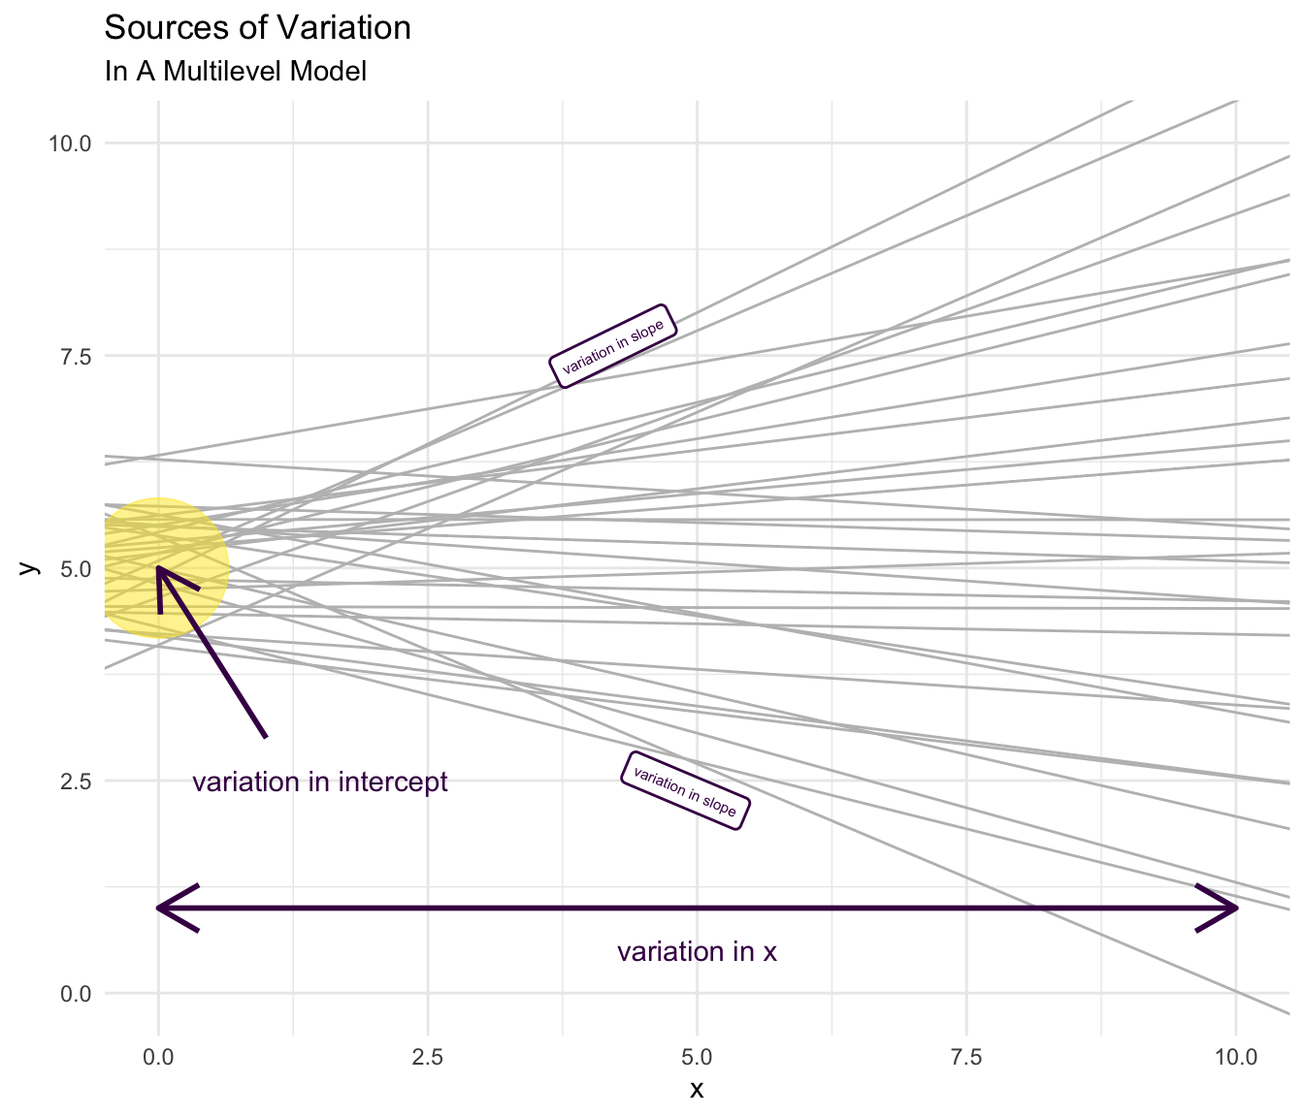
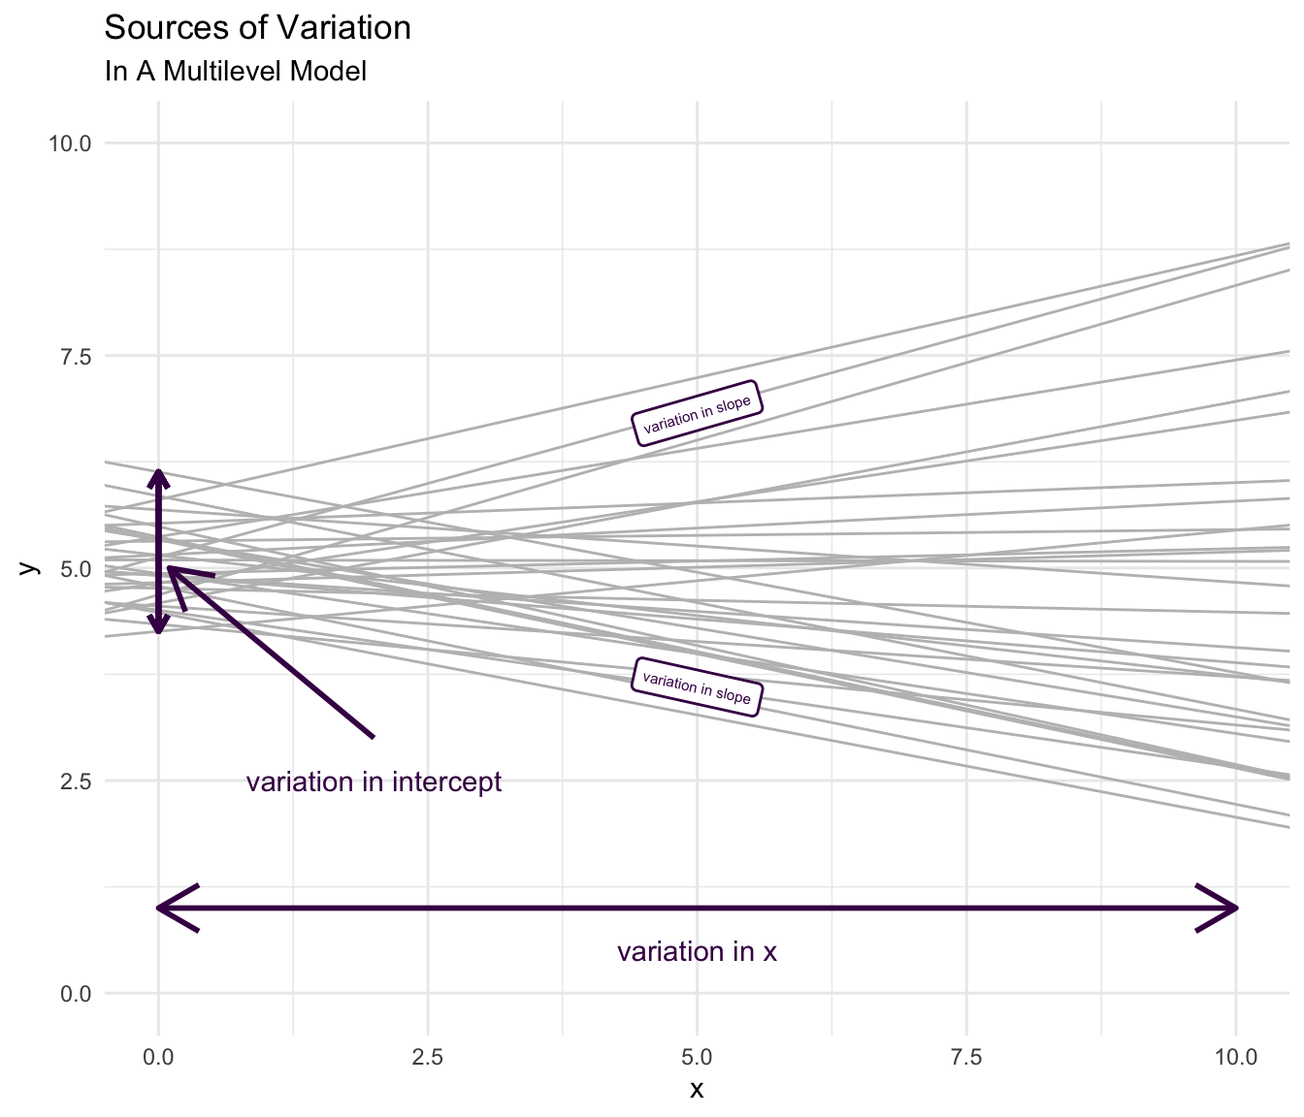
references to shrinkage hidden for a while; better diagram of sources of variation

diff --git a/docs/cross-sectional.html b/docs/cross-sectional.html
@@ -453,18 +453,17 @@ div.csl-indent {
   </ul></li>
   <li><a href="#correlation-of-random-intercept-and-random-slopes" id="toc-correlation-of-random-intercept-and-random-slopes" class="nav-link" data-scroll-target="#correlation-of-random-intercept-and-random-slopes"><span class="toc-section-number">6.5</span>  Correlation of Random Intercept and Random Slope(s)</a></li>
   <li><a href="#sec-withinbetween" id="toc-sec-withinbetween" class="nav-link" data-scroll-target="#sec-withinbetween"><span class="toc-section-number">6.6</span>  Within and Between</a></li>
-  <li><a href="#predicted-values" id="toc-predicted-values" class="nav-link" data-scroll-target="#predicted-values"><span class="toc-section-number">6.7</span>  Predicted Values</a></li>
-  <li><a href="#summary-of-advantages-of-the-multilevel-model" id="toc-summary-of-advantages-of-the-multilevel-model" class="nav-link" data-scroll-target="#summary-of-advantages-of-the-multilevel-model"><span class="toc-section-number">6.8</span>  Summary of Advantages Of The Multilevel Model</a></li>
-  <li><a href="#sec-wrongapproaches" id="toc-sec-wrongapproaches" class="nav-link" data-scroll-target="#sec-wrongapproaches"><span class="toc-section-number">6.9</span>  Some Wrong (or Partially Wrong) Approaches</a></li>
-  <li><a href="#variation" id="toc-variation" class="nav-link" data-scroll-target="#variation"><span class="toc-section-number">6.10</span>  Variation</a>
+  <li><a href="#summary-of-advantages-of-the-multilevel-model" id="toc-summary-of-advantages-of-the-multilevel-model" class="nav-link" data-scroll-target="#summary-of-advantages-of-the-multilevel-model"><span class="toc-section-number">6.7</span>  Summary of Advantages Of The Multilevel Model</a></li>
+  <li><a href="#sec-wrongapproaches" id="toc-sec-wrongapproaches" class="nav-link" data-scroll-target="#sec-wrongapproaches"><span class="toc-section-number">6.8</span>  Some Wrong (or Partially Wrong) Approaches</a></li>
+  <li><a href="#variation" id="toc-variation" class="nav-link" data-scroll-target="#variation"><span class="toc-section-number">6.9</span>  Variation</a>
   <ul class="collapse">
-  <li><a href="#measured-and-unmeasured-variation" id="toc-measured-and-unmeasured-variation" class="nav-link" data-scroll-target="#measured-and-unmeasured-variation"><span class="toc-section-number">6.10.1</span>  Measured and Unmeasured Variation</a></li>
-  <li><a href="#variation-in-intercepts-or-outcomes" id="toc-variation-in-intercepts-or-outcomes" class="nav-link" data-scroll-target="#variation-in-intercepts-or-outcomes"><span class="toc-section-number">6.10.2</span>  Variation In Intercepts or Outcomes</a></li>
-  <li><a href="#variation-in-predictors" id="toc-variation-in-predictors" class="nav-link" data-scroll-target="#variation-in-predictors"><span class="toc-section-number">6.10.3</span>  Variation In Predictors</a></li>
-  <li><a href="#variation-in-slopes" id="toc-variation-in-slopes" class="nav-link" data-scroll-target="#variation-in-slopes"><span class="toc-section-number">6.10.4</span>  Variation in Slopes</a></li>
-  <li><a href="#summary" id="toc-summary" class="nav-link" data-scroll-target="#summary"><span class="toc-section-number">6.10.5</span>  Summary</a></li>
-  <li><a href="#variation-as-an-outcome" id="toc-variation-as-an-outcome" class="nav-link" data-scroll-target="#variation-as-an-outcome"><span class="toc-section-number">6.10.6</span>  Variation As An Outcome</a></li>
-  <li><a href="#maximal-models" id="toc-maximal-models" class="nav-link" data-scroll-target="#maximal-models"><span class="toc-section-number">6.10.7</span>  Maximal Models</a></li>
+  <li><a href="#measured-and-unmeasured-variation" id="toc-measured-and-unmeasured-variation" class="nav-link" data-scroll-target="#measured-and-unmeasured-variation"><span class="toc-section-number">6.9.1</span>  Measured and Unmeasured Variation</a></li>
+  <li><a href="#variation-in-intercepts-or-outcomes" id="toc-variation-in-intercepts-or-outcomes" class="nav-link" data-scroll-target="#variation-in-intercepts-or-outcomes"><span class="toc-section-number">6.9.2</span>  Variation In Intercepts or Outcomes</a></li>
+  <li><a href="#variation-in-predictors" id="toc-variation-in-predictors" class="nav-link" data-scroll-target="#variation-in-predictors"><span class="toc-section-number">6.9.3</span>  Variation In Predictors</a></li>
+  <li><a href="#variation-in-slopes" id="toc-variation-in-slopes" class="nav-link" data-scroll-target="#variation-in-slopes"><span class="toc-section-number">6.9.4</span>  Variation in Slopes</a></li>
+  <li><a href="#summary" id="toc-summary" class="nav-link" data-scroll-target="#summary"><span class="toc-section-number">6.9.5</span>  Summary</a></li>
+  <li><a href="#variation-as-an-outcome" id="toc-variation-as-an-outcome" class="nav-link" data-scroll-target="#variation-as-an-outcome"><span class="toc-section-number">6.9.6</span>  Variation As An Outcome</a></li>
+  <li><a href="#maximal-models" id="toc-maximal-models" class="nav-link" data-scroll-target="#maximal-models"><span class="toc-section-number">6.9.7</span>  Maximal Models</a></li>
   </ul></li>
   </ul>
 <div class="toc-actions"><div><i class="bi bi-github"></i></div><div class="action-links"><p><a href="https://github.com/agrogan1/multilevel-thinking/issues/new" class="toc-action">Report an issue</a></p></div></div></nav>
@@ -1088,22 +1087,16 @@ cov(u_{0j}, u_{1j}) &amp; var(u_{1j})
 <p>** p&lt;.01, * p&lt;.05</p>
 <p>Estimates suggest that both the difference in an individual family’s expression of parental warmth from the country level mean, <em>but not</em> the difference in the country level mean from the grand mean are statistically significant predictors of the outcome.</p>
 </section>
-<section id="predicted-values" class="level2" data-number="6.7">
-<h2 data-number="6.7" class="anchored" data-anchor-id="predicted-values"><span class="header-section-number">6.7</span> Predicted Values</h2>
-<p><strong>To Be Developed:</strong> According to <strong>“Stein’s Paradox”</strong>, predictions from a multilevel model may be better than the mean (<strong>shrinkage</strong>).</p>
-</section>
-<section id="summary-of-advantages-of-the-multilevel-model" class="level2" data-number="6.8">
-<h2 data-number="6.8" class="anchored" data-anchor-id="summary-of-advantages-of-the-multilevel-model"><span class="header-section-number">6.8</span> Summary of Advantages Of The Multilevel Model</h2>
+<section id="summary-of-advantages-of-the-multilevel-model" class="level2" data-number="6.7">
+<h2 data-number="6.7" class="anchored" data-anchor-id="summary-of-advantages-of-the-multilevel-model"><span class="header-section-number">6.7</span> Summary of Advantages Of The Multilevel Model</h2>
 <p>The discussion so far gives an idea of the advantages of the multilevel model for studying intrinsically multilevel data: children in classrooms or schools; individuals or families in neighborhoods; individuals or families in countries. These advantages can be summarized below:</p>
 <ol type="1">
 <li>Standard errors are estimated correctly as is statistical significance. This means that p values are correctly estimated accounting for the clustered or nested nature of the data. More colloquially, this most often means that we do not make the mistake of attributing statistical significance to a given risk or protective factor, when such a statistical significance is not warranted. Put even more straightforwardly correct estimation of standard errors and statistical significance prevents us from seeing results that are simply not present in the data, whether those concern risk factors or protective factors.</li>
-<li>Regression coefficients are estimated correctly accounting for the clustered or nested structure of the data. If one does not account for the clustered or nested structure of the data, regression slopes can be estimated as negative when they are more correctly estimated as positive, or as null, or conversely estimated as positive when there are more correctly seen as negative (or null). Again, to phrase things in a more colloquial fashion, this means that we do not judge something to be a risk factor when it is in fact a protective factor or a null effect; or a protective factor when it is in fact a risk factor, or a null effect.<br>
-</li>
-<li>An increasing focus of statistical estimation is not to focus on particular regression parameters, but instead to predict outcomes for particular combinations of independent variables. Predictions from a multilevel model could be said to be best predictions in that groups are weighted by their precision, contributing to an estimate which makes better predictions than would a simple average. More colloquially, multilevel models allow us to predict outcomes better and more accurately than would be possible with simple or more naïve models.</li>
+<li>Regression coefficients are estimated correctly accounting for the clustered or nested structure of the data. If one does not account for the clustered or nested structure of the data, regression slopes can be estimated as negative when they are more correctly estimated as positive, or as null, or conversely estimated as positive when there are more correctly seen as negative (or null). Again, to phrase things in a more colloquial fashion, this means that we do not judge something to be a risk factor when it is in fact a protective factor or a null effect; or a protective factor when it is in fact a risk factor, or a null effect.</li>
 </ol>
 </section>
-<section id="sec-wrongapproaches" class="level2" data-number="6.9">
-<h2 data-number="6.9" class="anchored" data-anchor-id="sec-wrongapproaches"><span class="header-section-number">6.9</span> Some Wrong (or Partially Wrong) Approaches</h2>
+<section id="sec-wrongapproaches" class="level2" data-number="6.8">
+<h2 data-number="6.8" class="anchored" data-anchor-id="sec-wrongapproaches"><span class="header-section-number">6.8</span> Some Wrong (or Partially Wrong) Approaches</h2>
 <p>When data are clustered–e.g.&nbsp;residents in neighborhoods, children in schools, families in countries–it is worth discussing the fact that we have several choices statistically as how to proceed, other than using a multilevel model. Given the discussion so far, we can see the advantages of a multilevel model over these other approaches:</p>
 <ol type="1">
 <li>First, we could simply ignore the clustering, and treat the data as though it were composed of statistically independent individuals, i.e.&nbsp;statistically independent <span class="math inline">\(e_i\)</span>. As we have discussed above, however, this approach has at least two disadvantages. First, as discussed in <a href="#sec-pvalues"><span>Section&nbsp;6.1</span></a>, this approach will mis-estimate standard errors, most often underestimating them, resulting in underestimated p values and false positives. Second, as discussed in <a href="#sec-multilevelstructure"><span>Section&nbsp;6.2</span></a> ignoring clustering runs the risk of estimating regression <span class="math inline">\(\beta\)</span>’s that are not estimated with information about the multilevel structure of the data, with the possibility that <span class="math inline">\(\beta\)</span> coefficients may not only have incorrect statistical significance, but also incorrect magnitude, and even incorrect sign.</li>
@@ -1111,13 +1104,13 @@ cov(u_{0j}, u_{1j}) &amp; var(u_{1j})
 <li>Lastly, we could adopt a statistical strategy of <em>clustering</em> the standard errors. Clustering the standard errors means that standard errors are corrected for the non-independence of the <span class="math inline">\(e_i\)</span> within clusters. Thus, <em>p</em> values are estimated correctly. However, clustering still does not account for the multilevel structure of the data (<a href="#sec-multilevelstructure"><span>Section&nbsp;6.2</span></a>), and thus when relationships between <em>x</em>’s and <em>y</em> at different levels of the data are very different, simply clustering the standard errors may not give correct estimates of the <span class="math inline">\(\beta\)</span>’s.</li>
 </ol>
 </section>
-<section id="variation" class="level2" data-number="6.10">
-<h2 data-number="6.10" class="anchored" data-anchor-id="variation"><span class="header-section-number">6.10</span> Variation</h2>
+<section id="variation" class="level2" data-number="6.9">
+<h2 data-number="6.9" class="anchored" data-anchor-id="variation"><span class="header-section-number">6.9</span> Variation</h2>
 <p>Above, in <a href="conceptual-framework.html#sec-studyvariation"><span>Section&nbsp;5.3</span></a>, I have referred to multilevel models as the study of variation. Now that I have provided some discussion of the multilevel model, more statistical “unpacking” of ideas about variation is warranted.</p>
 <p>I provide again, for pedagogical purposes, the example substantive equation that I have been using in this document.</p>
 <p><span class="math display">\[\text{outcome}_{ij} = \beta_0 + \beta_1 \text{parental warmth}_{ij} + \\ \beta_2 \text{physical punishment}_{ij} +\]</span> <span class="math display">\[\beta_3 \text{group}_{ij} + \beta_4 \text{HDI}_{j} + \]</span> <span id="eq-MLMsubstantive2"><span class="math display">\[u_{0j} + u_{1j} \times \text{parental warmth} + e_{ij} \tag{6.10}\]</span></span></p>
-<section id="measured-and-unmeasured-variation" class="level3" data-number="6.10.1">
-<h3 data-number="6.10.1" class="anchored" data-anchor-id="measured-and-unmeasured-variation"><span class="header-section-number">6.10.1</span> Measured and Unmeasured Variation</h3>
+<section id="measured-and-unmeasured-variation" class="level3" data-number="6.9.1">
+<h3 data-number="6.9.1" class="anchored" data-anchor-id="measured-and-unmeasured-variation"><span class="header-section-number">6.9.1</span> Measured and Unmeasured Variation</h3>
 <p>The first thing to note about an equation for a multilevel model–here written in a more general form–is that it can be divided into measured and unmeasured variation.</p>
 <p><span class="math display">\[\begin{gather} \underbrace{y_{ij}}_\text{outcome} = \underbrace{\beta_0}_\text{intercept} + \underbrace{\beta_1 x}_{\text{slope of} \\ \text{measured x}} + \underbrace{\beta_2 \text{group}}_{\substack{\text{association of} \\ \text{measured group} \\ \text{with intercept}}} + \underbrace{\beta_3 x \times \text{group}}_{\substack{\text{association of} \\ \text{measured group} \\ \text{with slope of} \\  \text{measured x}}} + \\ \underbrace{u_{0j}}_{\substack{\text{unmeasured} \\ \text{Level 2} \\ \text{variation} \\ \text{in intercept}}} + \underbrace{u_{1j} \times x}_{\substack{\text{unmeasured} \\ \text{Level 2} \\ \text{variation} \\ \text{in slope of x}}} + \underbrace{e_{ij}}_{\substack{\text{unmeasured} \\ \text{individual} \\ \text{error}}} \end{gather}\]</span></p>
 <p>I have already introduced the idea of an unconditional model (<a href="#sec-unconditional"><span>Section&nbsp;6.4.1</span></a>), in which there are no independent variables, and all of the variation is unmeasured. The unconditional intraclcass correlation coefficient (ICC) (<a href="#sec-ICC"><span>Section&nbsp;6.4.2</span></a>) is a measure of the amount of variation that could potentially be attributable to the Level 2 units, in this case, different countries.</p>
@@ -1132,25 +1125,25 @@ cov(u_{0j}, u_{1j}) &amp; var(u_{1j})
 </div>
 </div>
 </section>
-<section id="variation-in-intercepts-or-outcomes" class="level3" data-number="6.10.2">
-<h3 data-number="6.10.2" class="anchored" data-anchor-id="variation-in-intercepts-or-outcomes"><span class="header-section-number">6.10.2</span> Variation In Intercepts or Outcomes</h3>
+<section id="variation-in-intercepts-or-outcomes" class="level3" data-number="6.9.2">
+<h3 data-number="6.9.2" class="anchored" data-anchor-id="variation-in-intercepts-or-outcomes"><span class="header-section-number">6.9.2</span> Variation In Intercepts or Outcomes</h3>
 <p>In <a href="#eq-MLMsubstantive2">Equation&nbsp;<span>6.10</span></a>, <span class="math inline">\(var(u_{0j})\)</span> is the model estimated amount of variation in the <em>outcome</em>, <span class="math inline">\(y_{ij}\)</span>.</p>
 <p>In the regression in <a href="#sec-regression"><span>Section&nbsp;6.4</span></a>, there is discernible between country variation, but more of the variation is between individuals within the same country. Put another way, there is a moderate tendency for children in families in the same country to have similar outcomes, but two children in families in the same country may also have very different outcomes. Children from families in different countries may be as similar as children from families in the same country.</p>
 </section>
-<section id="variation-in-predictors" class="level3" data-number="6.10.3">
-<h3 data-number="6.10.3" class="anchored" data-anchor-id="variation-in-predictors"><span class="header-section-number">6.10.3</span> Variation In Predictors</h3>
+<section id="variation-in-predictors" class="level3" data-number="6.9.3">
+<h3 data-number="6.9.3" class="anchored" data-anchor-id="variation-in-predictors"><span class="header-section-number">6.9.3</span> Variation In Predictors</h3>
 <p>Equally important, I think, but much less frequently explored than variation in <em>outcomes</em>, is the possibility of variation in <em>predictors</em>, <span class="math inline">\(var(x_{ij})\)</span>. In the substantive example that we have employed so far, the <em>predictors</em> are different <em>parenting behaviors</em>, so considering variation in <em>predictors</em> allows us to consider variation in <em>parenting behaviors</em>, as well as variation in the <em>outcomes</em> of those behaviors.</p>
 <p>We would estimate variation in behaviors attributable to country in much the same way that we would estimate variation in outcomes, estimating an unconditional model, but substituting <span class="math inline">\(x\)</span> for <span class="math inline">\(y\)</span>.<a href="#fn2" class="footnote-ref" id="fnref2" role="doc-noteref"><sup>2</sup></a></p>
 <p><span id="eq-unconditionalx"><span class="math display">\[x_{ij} = \beta_0 + w_{0j} + e_{ij} \tag{6.11}\]</span></span></p>
 <p>Then, similarly, the variation in a predictor attributable to the clustered nature of the data–in this case the clustering of individuals in countries–is given by:</p>
 <p><span id="eq-ICCx"><span class="math display">\[\text{ICC}_x = \frac{var(w_{0j})}{var(w_{0j}) + var(e_{ij})} \tag{6.12}\]</span></span></p>
 </section>
-<section id="variation-in-slopes" class="level3" data-number="6.10.4">
-<h3 data-number="6.10.4" class="anchored" data-anchor-id="variation-in-slopes"><span class="header-section-number">6.10.4</span> Variation in Slopes</h3>
+<section id="variation-in-slopes" class="level3" data-number="6.9.4">
+<h3 data-number="6.9.4" class="anchored" data-anchor-id="variation-in-slopes"><span class="header-section-number">6.9.4</span> Variation in Slopes</h3>
 <p>Another possible type of variation to investigate is variation in the relationship of <span class="math inline">\(x\)</span> and <span class="math inline">\(y\)</span>, which is represented in the multilevel model by examining variation in the <span class="math inline">\(\beta\)</span>’s, i.e.&nbsp;<span class="math inline">\(var(u_{1j})\)</span>.</p>
 </section>
-<section id="summary" class="level3" data-number="6.10.5">
-<h3 data-number="6.10.5" class="anchored" data-anchor-id="summary"><span class="header-section-number">6.10.5</span> Summary</h3>
+<section id="summary" class="level3" data-number="6.9.5">
+<h3 data-number="6.9.5" class="anchored" data-anchor-id="summary"><span class="header-section-number">6.9.5</span> Summary</h3>
 <p>Thus, we can consider a number of sources of possible variation.</p>
 <div id="tbl-sourcesvariation" class="anchored">
 <table class="table">
@@ -1222,16 +1215,16 @@ cov(u_{0j}, u_{1j}) &amp; var(u_{1j})
 </table>
 </div>
 </section>
-<section id="variation-as-an-outcome" class="level3" data-number="6.10.6">
-<h3 data-number="6.10.6" class="anchored" data-anchor-id="variation-as-an-outcome"><span class="header-section-number">6.10.6</span> Variation As An Outcome</h3>
+<section id="variation-as-an-outcome" class="level3" data-number="6.9.6">
+<h3 data-number="6.9.6" class="anchored" data-anchor-id="variation-as-an-outcome"><span class="header-section-number">6.9.6</span> Variation As An Outcome</h3>
 <p>Even less common is to examine <em>variation</em> itself as an outcome <span class="citation" data-cites="Burkner2018">(<a href="references.html#ref-Burkner2018" role="doc-biblioref">Burkner, 2018</a>)</span>.</p>
 <p><span id="eq-distributional"><span class="math display">\[\sigma_{yij} = \beta_0 + \beta_1 x_1 + u_{0j} + e_{ij} \tag{6.13}\]</span></span></p>
 <p>Here, the variation in the outcome, <span class="math inline">\(\sigma_{yij}\)</span>, rather than the mean level of the outcome, <span class="math inline">\(y_{ij}\)</span>, is the focus of interest. My notation for <a href="#eq-distributional">Equation&nbsp;<span>6.13</span></a> draws upon <span class="citation" data-cites="Burkner2018">Burkner (<a href="references.html#ref-Burkner2018" role="doc-biblioref">2018</a>)</span>’s notation, but is modified in order to be consistent with the rest of this document.</p>
 <p>Why might such models be of conceptual interest? Imagine for example, that the <em>variation</em> in psychological well-being is higher in countries with higher levels of poverty, or higher levels of income inequality. The use of such models as this, discussed in more detail by <span class="citation" data-cites="Burkner2018">Burkner (<a href="references.html#ref-Burkner2018" role="doc-biblioref">2018</a>)</span>, would allow us to explore such a question.</p>
 <p>Of note, while I do not explore in detail differences between Bayesian and frequentist approaches to multilevel modeling in this document, these models are likely to be only estimable with Bayesian software rather than with frequentist software <span class="citation" data-cites="Burkner2018">(<a href="references.html#ref-Burkner2018" role="doc-biblioref">Burkner, 2018</a>)</span>.</p>
 </section>
-<section id="maximal-models" class="level3" data-number="6.10.7">
-<h3 data-number="6.10.7" class="anchored" data-anchor-id="maximal-models"><span class="header-section-number">6.10.7</span> Maximal Models</h3>
+<section id="maximal-models" class="level3" data-number="6.9.7">
+<h3 data-number="6.9.7" class="anchored" data-anchor-id="maximal-models"><span class="header-section-number">6.9.7</span> Maximal Models</h3>
 <p>Hypothetically, one might imagine that there could be group level unobserved factors which affect regression slopes: i.e.&nbsp;the relationship between a predictor x and outcome variable y. Arguably, were one to ignore these unobserved factors in statistical estimation, they would show up either in an error term, or in the regression coefficients themselves. Were they to show up in the regression coefficients this would represent statistical bias and a substantive mis-estimation of important effects. thus, there is a conceptual argument for including as many random effects—i.e.&nbsp;random slopes—in a statistical model as possible.</p>
 <p>Models with all possible random effects are termed <em>maximal models</em> <span class="citation" data-cites="Barr2013 Frank2018">(<a href="references.html#ref-Barr2013" role="doc-biblioref">Barr et al., 2013</a>; <a href="references.html#ref-Frank2018" role="doc-biblioref">Frank, 2018</a>)</span>. Such models include a large number of random slopes, e.g.&nbsp;<span class="math inline">\(u_1 \times x_1, u_2 \times x_2, u_3 \times x_3, ..., \text{etc.}\)</span> even when some of those estimated slopes are close to 0. Such models may be more easily estimable when using Bayesian estimation <span class="citation" data-cites="Frank2018">(<a href="references.html#ref-Frank2018" role="doc-biblioref">Frank, 2018</a>)</span>, a topic which I do not cover in detail in this document.</p>
 <p>It should be noted that <span class="citation" data-cites="Matuschek2017">Matuschek et al. (<a href="references.html#ref-Matuschek2017" role="doc-biblioref">2017</a>)</span> argue that such a <em>maximal</em> approach may lead to a loss of statistical power and further argue that one should adhere to “a random effect structure that is supported by the data.” In contrast, <span class="citation" data-cites="nalborczyk_batailler_loevenbruck_vilain_burkner_2019">Nalborczyk et al. (<a href="references.html#ref-nalborczyk_batailler_loevenbruck_vilain_burkner_2019" role="doc-biblioref">2019</a>)</span> argue that maximal models are supported under the Bayesian approach. <span class="citation" data-cites="Oberauer2022">Oberauer (<a href="references.html#ref-Oberauer2022" role="doc-biblioref">2022</a>)</span> also argues for including multiple random slopes. <span class="citation" data-cites="Schielzeth2009">Schielzeth &amp; Forstmeier (<a href="references.html#ref-Schielzeth2009" role="doc-biblioref">2009</a>)</span> make a similar argument from a frequentist perspective.</p>
